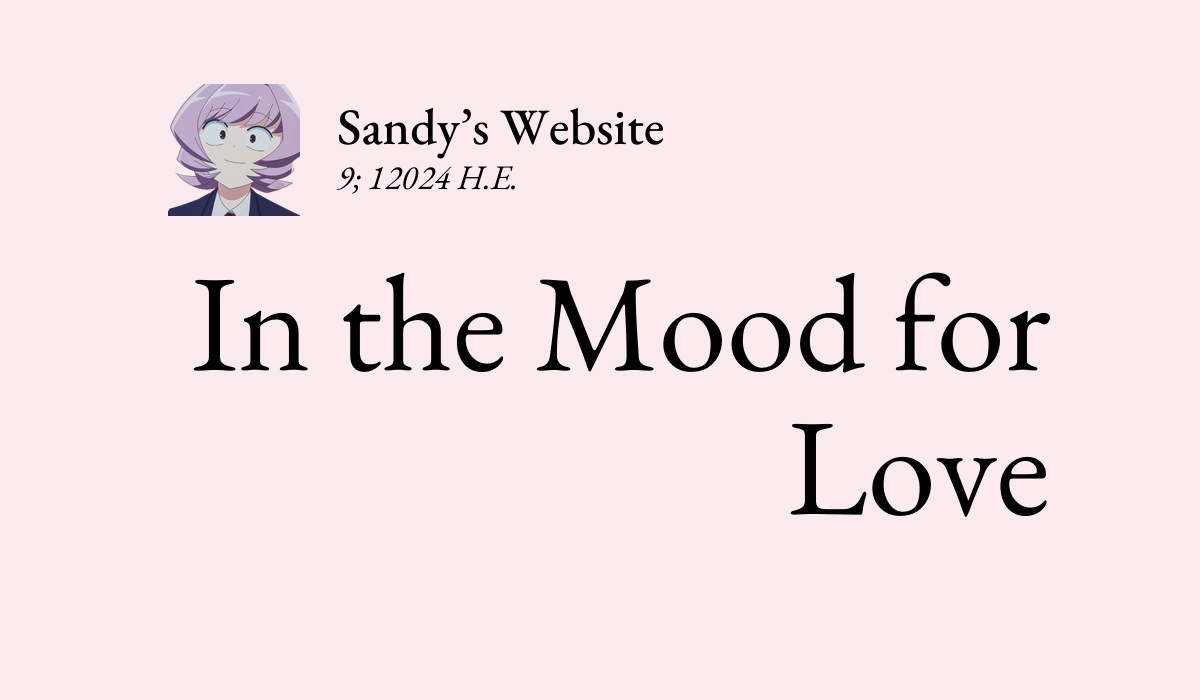
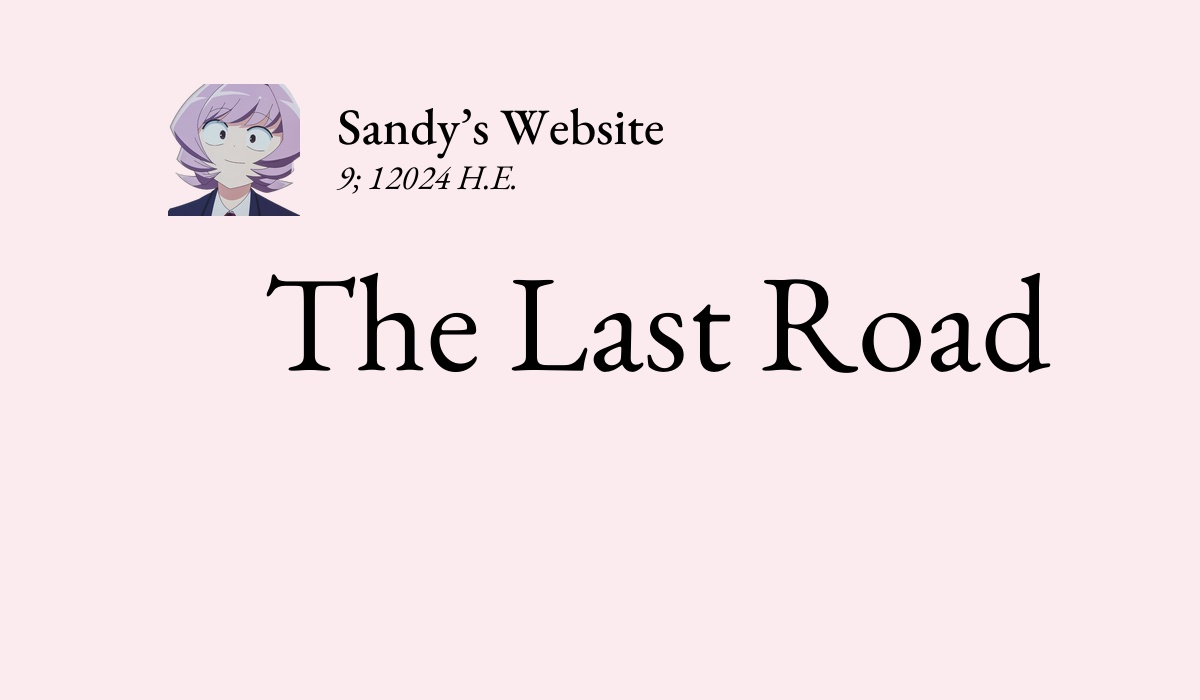
Deploying to main from @ thecsw/thecsw.github.io@ea595e1d2277ab77ad957d118ea0cc9f6b160807 🚀

Changed region(s): [[0.1542, 0.39, 0.8942, 0.54], [0.6475, 0.6, 0.8942, 0.75]]

diff --git a/drama/the-last-road/index.html b/drama/the-last-road/index.html
@@ -25,7 +25,7 @@
 <meta name="author" property="author" content="sandy">
 <meta name="date" property="date" content="9; 12024 H.E.">
 <meta name="description" property="description" content="Russia’s first and greatest poet’s last hours....">
-<meta name="og:title" property="og:title" content="In the Mood for Love">
+<meta name="og:title" property="og:title" content="The Last Road">
 <meta name="og:site_name" property="og:site_name" content="Sandy’s Website ⛩">
 <meta name="og:url" property="og:url" content="https://sandyuraz.com/drama/the-last-road">
 <meta name="og:locale" property="og:locale" content="en_GB">
@@ -41,18 +41,18 @@
 <meta name="twitter:creator" property="twitter:creator" content="@sandyuraz">
 <meta name="twitter:image:src" property="twitter:image:src" content="https://sandyuraz.com/drama/the-last-road/preview.jpg">
 <meta name="twitter:url" property="twitter:url" content="https://sandyuraz.com/drama/the-last-road">
-<meta name="twitter:title" property="twitter:title" content="In the Mood for Love">
+<meta name="twitter:title" property="twitter:title" content="The Last Road">
 <meta name="twitter:description" property="twitter:description" content="Russia’s first and greatest poet’s last hours...."><link rel="stylesheet" type="text/css" href="https://sandyuraz.com/css/darkness.css">
 <script type="module">document.documentElement.classList.remove("no-js");document.documentElement.classList.add("js");</script>
 <script async src="https://sandyuraz.com/scripts/time.js"></script>
 <meta name="theme-color" property="theme-color" content="#ffffff">
 <link rel="stylesheet" type="text/css" href="../drama.css">
-<title>In the Mood for Love</title>
+<title>The Last Road</title>
 </head>
 <body class="article">
 
 <div class="header">
-<h1 class="section-1"><img id="myface" src="https://sandyuraz.com/najimi.webp" alt="avatar">In the Mood for Love</h1>
+<h1 class="section-1"><img id="myface" src="https://sandyuraz.com/najimi.webp" alt="avatar">The Last Road</h1>
 <div class="menu">
 <span><a href="/feed.xml" class="rss-link"><img src="/assets/rss.svg" class="rss-icon"></a></span><br>
 <span id="email" class="email">darkness [at] sandyuraz [dot] com</span><br>

diff --git a/blogs/rebecca/index.html b/blogs/rebecca/index.html
@@ -114,7 +114,7 @@ This is all my and only my isolated perspective on Lucy, without a goal of Influ
 </div>
 <div class="paragraph " >
 <p>
-But yeah, to close up and make a nice bow tie. Lucy is great, but I have been in relationships with many “archetypes’&#39; of her. The difficulty of reading a person, and even if I try to stay proactive in expressing feelings, but making it very clear that “it is not because things are bad or anything, completely the opposite, actually” can make people tense up or get them freaked out by it (completely understandable, though; we as a society aren’t taught or told that it’s okay to say how you feel <strong>no matter what the situation or state of affairs is</strong>).
+But yeah, to close up and make a nice bow tie. Lucy is great, but I have been in relationships with many “archetypes” of her. The difficulty of reading a person, and even if I try to stay proactive in expressing feelings, but making it very clear that “it is not because things are bad or anything, completely the opposite, actually” can make people tense up or get them freaked out by it (completely understandable, though; we as a society aren’t taught or told that it’s okay to say how you feel <strong>no matter what the situation or state of affairs is</strong>).
 </p>
 </div>
 <div class="paragraph " >

diff --git a/drama/shin-godzilla/index.html b/drama/shin-godzilla/index.html
@@ -75,7 +75,7 @@ I adore the fact that the <em>biggest</em> and <em>baddest</em> monster in this 
 </div>
 <div class="paragraph " >
 <p>
-We know how. Moving from one conference room to another, trying to find “experts’&#39; for their “professional” and “timely” opinion, most of all, of course—trying to see who’s responsibility within the governmental apparatus it is to deal with this mess (of course, it’s everyone’s, but no one will say it). The endless title screens of introducing us to all different bureaucrats and officials with their full name, title, and division adds a whole level of appreciation for the commitment of Hideaki Anno’s vision for the film.
+We know how. Moving from one conference room to another, trying to find “experts” for their “professional” and “timely” opinion, most of all, of course—trying to see who’s responsibility within the governmental apparatus it is to deal with this mess (of course, it’s everyone’s, but no one will say it). The endless title screens of introducing us to all different bureaucrats and officials with their full name, title, and division adds a whole level of appreciation for the commitment of Hideaki Anno’s vision for the film.
 </p>
 </div>
 <div class="paragraph " >

diff --git a/anime/goldenboy/index.html b/anime/goldenboy/index.html
@@ -99,7 +99,7 @@ Of course, you are “cool” and “jaded”. Surprise. Aren’t we all? Cynici
 
 <div class="paragraph " >
 <p>
-<em>Golden Boy</em> capitalizes on that big time with Kintaro. The protagonist isn’t a freezer because he isn’t “smart” or “ambitious” enough to get educated, trained, or employed somewhere. He cleared all Law degree requirements (with his integrity), and the stories he’s in prove otherwise. Kintaro is an incredibly resourceful and intelligent individual. Instead, he took upon an adventure I would call myself too much of a coward to <em>probably</em> ever embark on.
+<em>Golden Boy</em> capitalizes on that big time with Kintaro. The protagonist isn’t a freezer because he isn’t “smart” or “ambitious’&#39; enough to get educated, trained, or employed somewhere. He cleared all Law degree requirements (with his integrity), and the stories he’s in prove otherwise. Kintaro is an incredibly resourceful and intelligent individual. Instead, he took upon an adventure I would call myself too much of a coward to <em>probably</em> ever embark on.
 </p>
 </div>
 <div class="paragraph " >

diff --git a/blogs/installing_arch/index.html b/blogs/installing_arch/index.html
@@ -527,7 +527,7 @@ If it does not let you in or some error occurs, please make sure you followed al
 <h3 id="setting-the-time" class="section-4">Setting the time</h3>
 <div class="paragraph " >
 <p>
-We need to set your local time. Find your timezone in <code>/usr/share/zonenifo</code> and use it instead of <code><u>Region</u></code> and <code><u>City</u></code>
+We need to set your local time. Find your timezone in <code>/usr/share/zonenifo</code> and use it instead of <code>_Region_</code> and <code>_City_</code>
 </p>
 </div></div>
 
@@ -638,7 +638,7 @@ Set the sudo access by uncommenting <code>%wheel ALL = (ALL) ALL</code> when run
 
 <li class="l1">
 <p>
-Changing the <em>user</em>’s password <code>% passwd <u>user</u></code>
+Changing the <em>user</em>’s password <code>% passwd _user_</code>
 </p>
 </li>
 </ul>

diff --git a/blogs/using_mutt/index.html b/blogs/using_mutt/index.html
@@ -419,7 +419,7 @@ sslcacertfile = /etc/ssl/certs/ca-certificates.crt</code></pre>
 
 <div class="paragraph " >
 <p>
-This config file just gives us some details about how to contact the IMAP server and how to save it. <code><u>mymail</u></code> is any name of your choice. For my university mail, I have it named <code>kumail</code>, feel free to name it whatever name is convenient for you.
+This config file just gives us some details about how to contact the IMAP server and how to save it. <code>_mymail_</code> is any name of your choice. For my university mail, I have it named <code>kumail</code>, feel free to name it whatever name is convenient for you.
 </p>
 </div>
 <div class="paragraph " >

diff --git a/projects/corporate/index.html b/projects/corporate/index.html
@@ -70,7 +70,7 @@ On February 22nd, 2023, I gave my traditional annual spotlight talk at KU (Unive
 </div>
 <div class="paragraph " >
 <p>
-Last time I gave a talk, I was still a student (senior at the time) at KU. I would call that talk my personal “magnum opus’&#39;, <a href="https://sandyuraz.com/projects/art/" title="">The Art of Computer Science ❤</a>.
+Last time I gave a talk, I was still a student (senior at the time) at KU. I would call that talk my personal “magnum opus”, <a href="https://sandyuraz.com/projects/art/" title="">The Art of Computer Science ❤</a>.
 </p>
 </div>
 <div class="paragraph " >

diff --git a/quotes/index.html b/quotes/index.html
@@ -382,7 +382,7 @@ The degree of civilization in a society can be judged by entering its prisons.
 <h1 id="228--12023-h-e" class="section-2" title="Wed, 16 Aug 2023">228; 12023 H.E.</h1>
 <div class="paragraph " >
 <p>
-“Consciousness of life is higher than life, knowledge of the laws of happiness is higher than happiness”—that is what we must fight against!
+“Consciousness of life is higher than life, knowledge of the laws of happiness is higher than happiness’&#39;—that is what we must fight against!
 </p>
 </div>
 <div class="paragraph " >

diff --git a/blogs/drive-thru/index.html b/blogs/drive-thru/index.html
@@ -165,7 +165,7 @@ So, here is the breakdown of the two combos we got.
 
 <li class="l1">
 <p>
-<strong>Total:</strong> 2480 Calories <sup><em>chuckle, we’re in danger</em></sup>
+<strong>Total:</strong> 2480 Calories <sup>/chuckle, we’re in danger/</sup>
 </p>
 </li>
 </ul>
